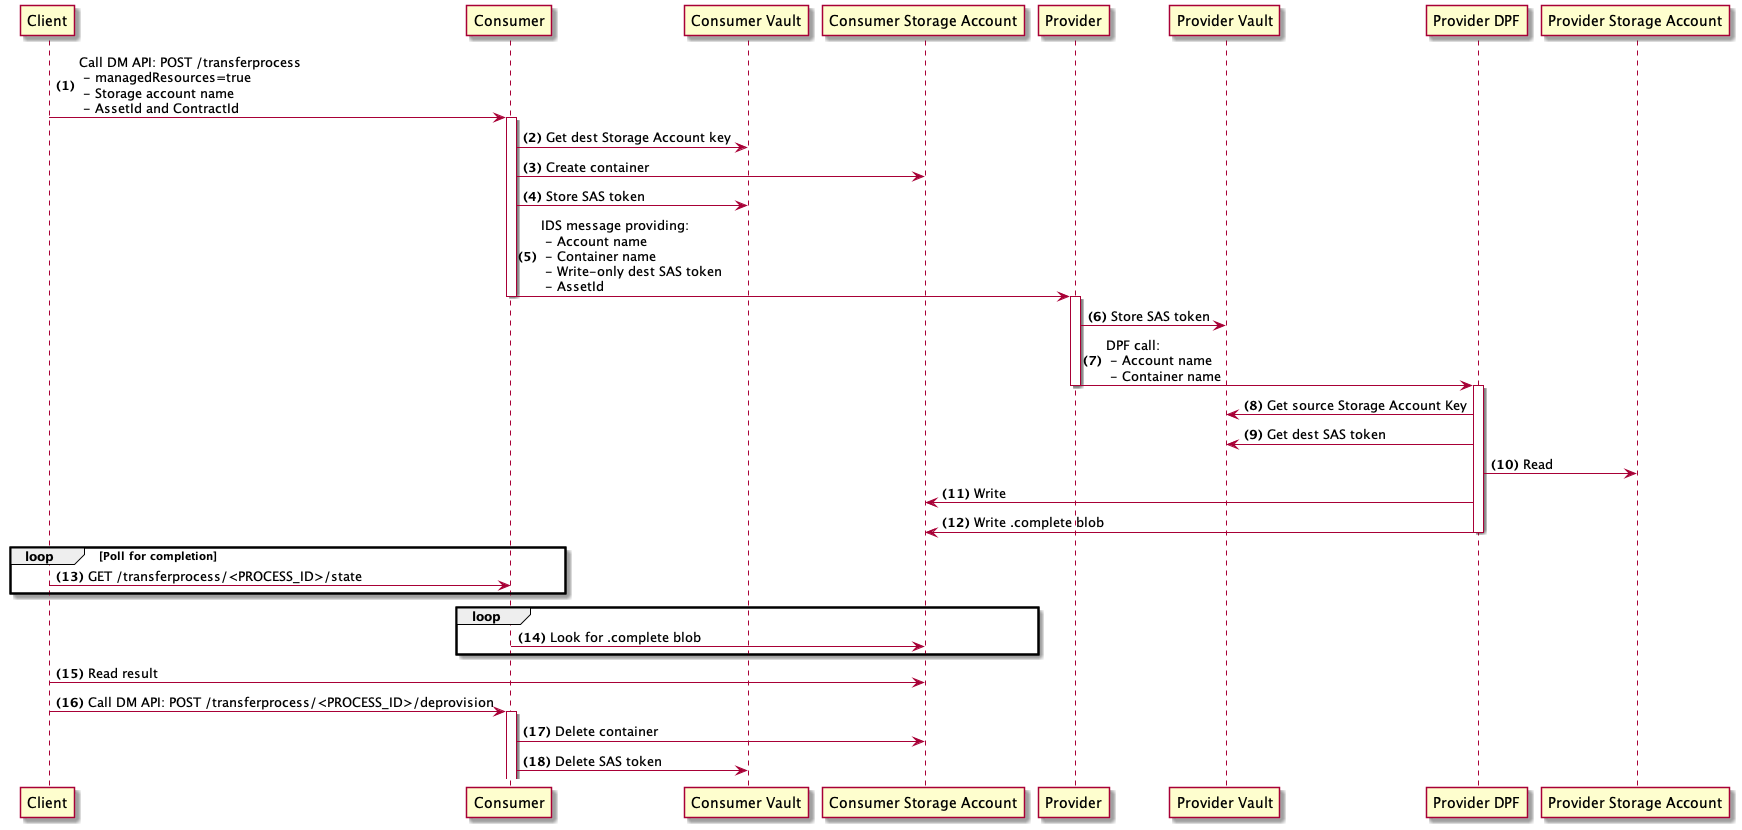
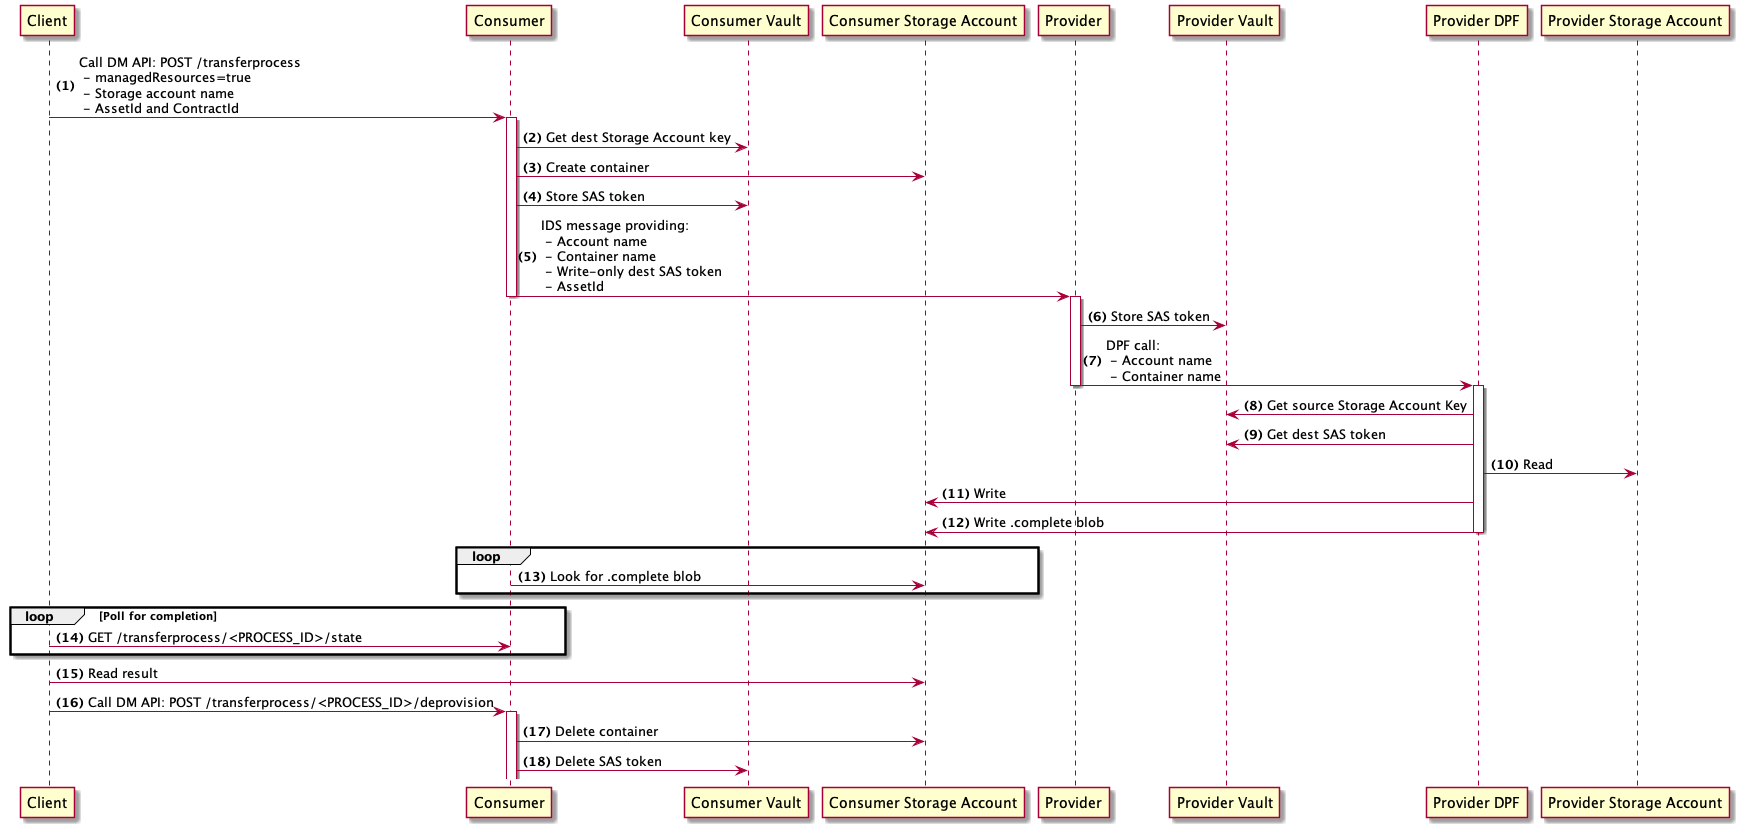
Moved client poll.

Changed region(s): [[0.0, 0.6325, 0.62, 0.8133], [0.341, 0.6325, 0.589, 0.6627]]

diff --git a/docs/developer/decision-records/2022-04-21-dpf-blob-data-transfer/README.md b/docs/developer/decision-records/2022-04-21-dpf-blob-data-transfer/README.md
@@ -43,10 +43,10 @@ The sequence starts from the client triggering the transfer on the consumer side
 10. The Provider DPF reads the data that needs to be transfered using an [AzureStorageDataSource](../../../../extensions/azure/data-plane/storage/src/main/java/org/eclipse/dataspaceconnector/azure/dataplane/azurestorage/pipeline/AzureStorageDataSource.java).  
 11. The Provider DPF writes the data to the destination blob so that the consumer can access the data.
 The [AzureStorageDataSink](../../../../extensions/azure/data-plane/storage/src/main/java/org/eclipse/dataspaceconnector/azure/dataplane/azurestorage/pipeline/AzureStorageDataSink.java) transfers the data to the blob destination.
-12. When the transfer is finished, the Provider DPF writes a blob called `.complete` to signal the completion.
-13. In the meantime, the client polls the transfer status regularly on the consumer endpoint `/transferprocess/<PROCESS_ID>/state`.  
-14. In the meantime, the consumer regularly checks if a blob named `.complete` exists in the container. Clients can poll the state using the `/transferprocess/<PROCESS_ID>/state` endpoint.
+12. When the transfer is finished, the Provider DPF writes a blob called `.complete` to signal the completion. 
+13. In the meantime, the consumer regularly checks if a blob named `.complete` exists in the container. Clients can poll the state using the `/transferprocess/<PROCESS_ID>/state` endpoint.
 When the `.complete` is found, the consumer persists the new transferProcess state.  
+14. The clients polls the transferProcess state.  
 15. When the transfer is finished, the client can read the blob.  
 16. Then, the client can call the Data Management API to deprovision the transfer process by the following two steps.
 17. Consumer deletes the container containing the blob. The [ObjectStorageProvisioner](../../../../extensions/azure/blobstorage/blob-provision/src/main/java/org/eclipse/dataspaceconnector/provision/azure/blob/ObjectStorageProvisioner.java) is responsible for deprovisioning the container.
